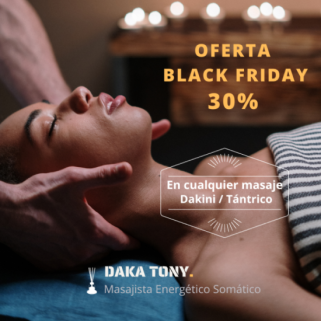
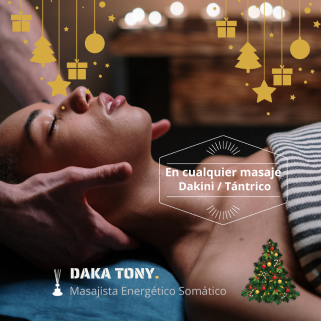
promoción navideña

diff --git a/index.html b/index.html
@@ -40,7 +40,7 @@
           <a href="#">Daka Tony<span>.</span></a>
         </h1>
         <div style="width: 100%;">
-          <marquee><button role="link" class="resplandor promos" id="btnPromo"><u>Black Friday 30%</u></button></marquee>
+          <marquee><button role="link" class="resplandor promos" id="btnPromo"><u>Esta navidad 20%</u></button></marquee>
         </div>
 
         <div class="navbar-actions">
@@ -270,19 +270,19 @@
                   <tr>
                     <td>
                       <span>Ritual Kali (Energía Kundalini) 90 min.</span
-                      ><span title="Precio Normal: 80 euros">56 euros</span>
+                      ><span title="Precio Normal: 80 euros">64 euros</span>
                     </td>
                   </tr>
                   <tr>
                     <td>
                       <span>Ritual Radha (Pechos, abdomen) 90 min.</span
-                      ><span title="Precio Normal: 80 euros">56 euros</span>
+                      ><span title="Precio Normal: 80 euros">64 euros</span>
                     </td>
                   </tr>
                   <tr>
                     <td>
                       <span>Ritual Lalita (Sensualidad) 120 min.</span
-                      ><span title="Precio Normal: 90 euros">63 euros</span>
+                      ><span title="Precio Normal: 90 euros">72 euros</span>
                     </td>
                   </tr>
                 </tbody>
@@ -294,13 +294,13 @@
                 <tbody>
                   <tr>
                     <td>
-                      <span>Masaje y sanación de 90 min.</span><span title="Precio Normal: 100 euros">70 euros</span>
+                      <span>Masaje y sanación de 90 min.</span><span title="Precio Normal: 100 euros">80 euros</span>
                     </td>
                   </tr>
                   <tr>
                     <td>
                       <span>Masaje y sanación de 120 min.</span
-                      ><span title="Precio Normal: 120 euros">84 euros</span>
+                      ><span title="Precio Normal: 120 euros">96 euros</span>
                     </td>
                   </tr>
                 </tbody>
@@ -330,7 +330,7 @@
                 </tbody>
               </table>
             </details>
-            <span class="section-text-notes">* Este precio estará vigente hasta <u>30 de Noviembre</u> por Black Friday.</span>
+            <span class="section-text-notes">* Precios vigente hasta el <u>22 de Diciembre</u> por oferta navideña.</span>
 
             <div class="btn-group"style="display: flex;justify-content: center;margin-top: 8px">
               <a href="https://calendar.app.google/yc5Kxt3q7RVmnwGa8" target="_blank" rel="noopener" class="btn btn-primary">Reserva tu Cita Previa</a>
@@ -531,22 +531,22 @@
 
       <div class="promo-content">
         <div>
-          <h1 class="h1"><strong>OFERTAS<br>BLACK FRIDAY</strong></h1>
-          &nbsp;<br>
-          <h3>Con el 30% de descuento en todos los servicios de masaje.</h3>
+          <h1 class="h1" style="color:aliceblue"><strong>¡¡FELIZ NAVIDAD!!!</strong></h1>
+          <h3 style="color:aliceblue">y próspero año 2023<br><br>
+          Regala un masaje y/o también para ti.</h3>
           <p>
-          &nbsp;<br><h3>¡Oferta válida hasta el 30 Noviembre!</h3></p>
+          &nbsp;<br><h4 style="color:aliceblue">¡Oferta del 20% válida hasta el 22 de Diciembre!</h4></p>
           <p>
           </p>
           <div class="btn-group" style="display: flex;justify-content: center;margin-top: 8px">
-            <a href="#skills" class="btn btn-secondary" id="closePromo">Ir a mis servicios</a>
+            <a href="#skills" class="btn btn-christmas" id="closePromo">Ir a mis servicios</a>
           </div>
           <p><br></p>
         </div>
         <figure>
           <picture>
               <source srcset="./assets/images/portada-promo.png" media="(min-width: 920px)">
-              <img src="./assets/images/portada-promo-sm.png" alt="Oferta Black Friday 30%" />
+              <img src="./assets/images/portada-promo-sm.png" alt="Oferta de Promoción" />
           </picture>
         </figure>
         

diff --git a/assets/css/style.css b/assets/css/style.css
@@ -25,6 +25,8 @@
   --scarlet: hsl(13, 96%, 47%);
   --black: hsl(0, 0%, 0%);
   --white: hsl(0, 0%, 100%);
+  --christmas: #DB0101; 
+  --blackfriday: #fff5f0;
 
   /**
    * typography
@@ -271,6 +273,11 @@ details[open] summary:after {
 }
 
 .btn-secondary:is(:hover, :focus) { --raw-seinna: hsl(24, 74%, 64%); }
+
+.btn-christmas {
+  background-color: #2d6730;
+  color: #fff;
+}
 
 .section-subtitle {
   position: relative;
@@ -1016,7 +1023,7 @@ textarea.input-field {
 /* Modal Content/Box */
 .modal-content {
   position: relative;
-  background-color: #fff5f0;
+  background-color: var(--christmas);
   border-radius: 10px;
   margin: 1% auto; /* 15% from the top and centered */
   padding: 20px;
